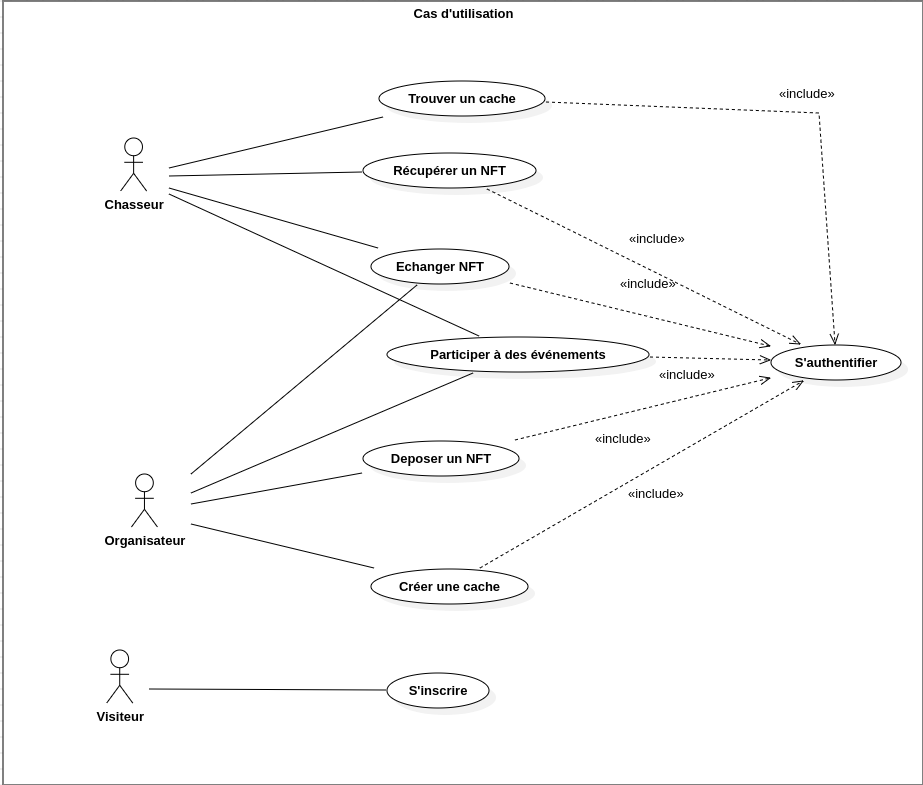
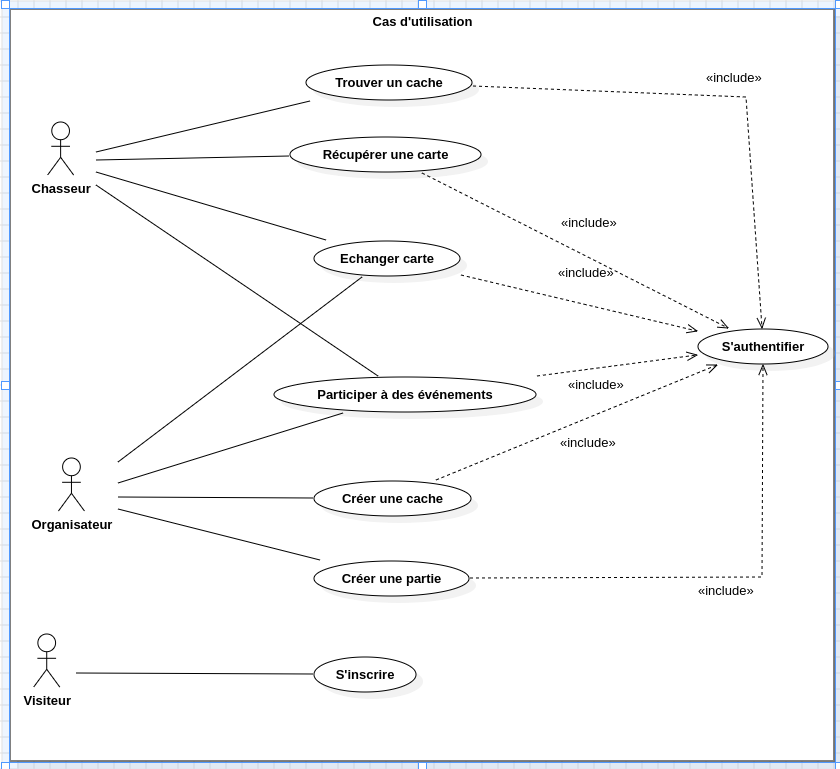
ajout des interfaces sur le readme

diff --git a/README.md b/README.md
@@ -67,5 +67,26 @@ Le diagramme de classes montre que chaque Utilisateur possède des Collections, 
 
 ![dc.png](dc.png)
 ## Interface
+1. Rejoindre une partie / liste de parties
 
-vdsvd
+Permet aux utilisateurs de voir et de rejoindre des parties de chasse. Un champ de recherche et des filtres par organisateur et rareté sont disponibles. Un message en haut de l’écran recommande l’utilisation d’un mobile ou d’une tablette pour le mode jeu. 
+![rejoindre.png](rejoindre.png)
+
+2. Ecran de jeu
+
+Affiche les détails d’une partie spécifique, incluant le numéro de partie, le créateur et la rareté. Une carte interactive permet aux joueurs de visualiser leur environnement, avec un espace pour des indices.
+![ecran.png](ecran.png)
+
+3. les cartes
+
+Cette partie affiche la liste des cartes
+![cartes.png](cartes.png)
+
+4. Ecran de la victoire
+Cet écran s’affiche lorsque le joueur obtient une nouvelle carte après avoir remporté une partie. La carte obtenue est mise en avant avec son nom en grand, et un message en haut confirme son ajout à la collection. L’arrière-plan montre une carte géographique, ajoutant au contexte de la victoire.
+![ecran_victoire.png](ecran_victoire.png)
+
+5. Création d’une partie
+Cet écran permet aux utilisateurs de créer une nouvelle partie de chasse. Ils peuvent sélectionner un emplacement sur la carte et fournir des indices pour guider les joueurs. Un bouton « Créer cache » valide la création de la partie, ajoutant ainsi une nouvelle chasse à la liste des parties disponibles.
+![creation_partie1.png](creation_partie1.png)
+![creation_partie2.png](creation_partie2.png)
